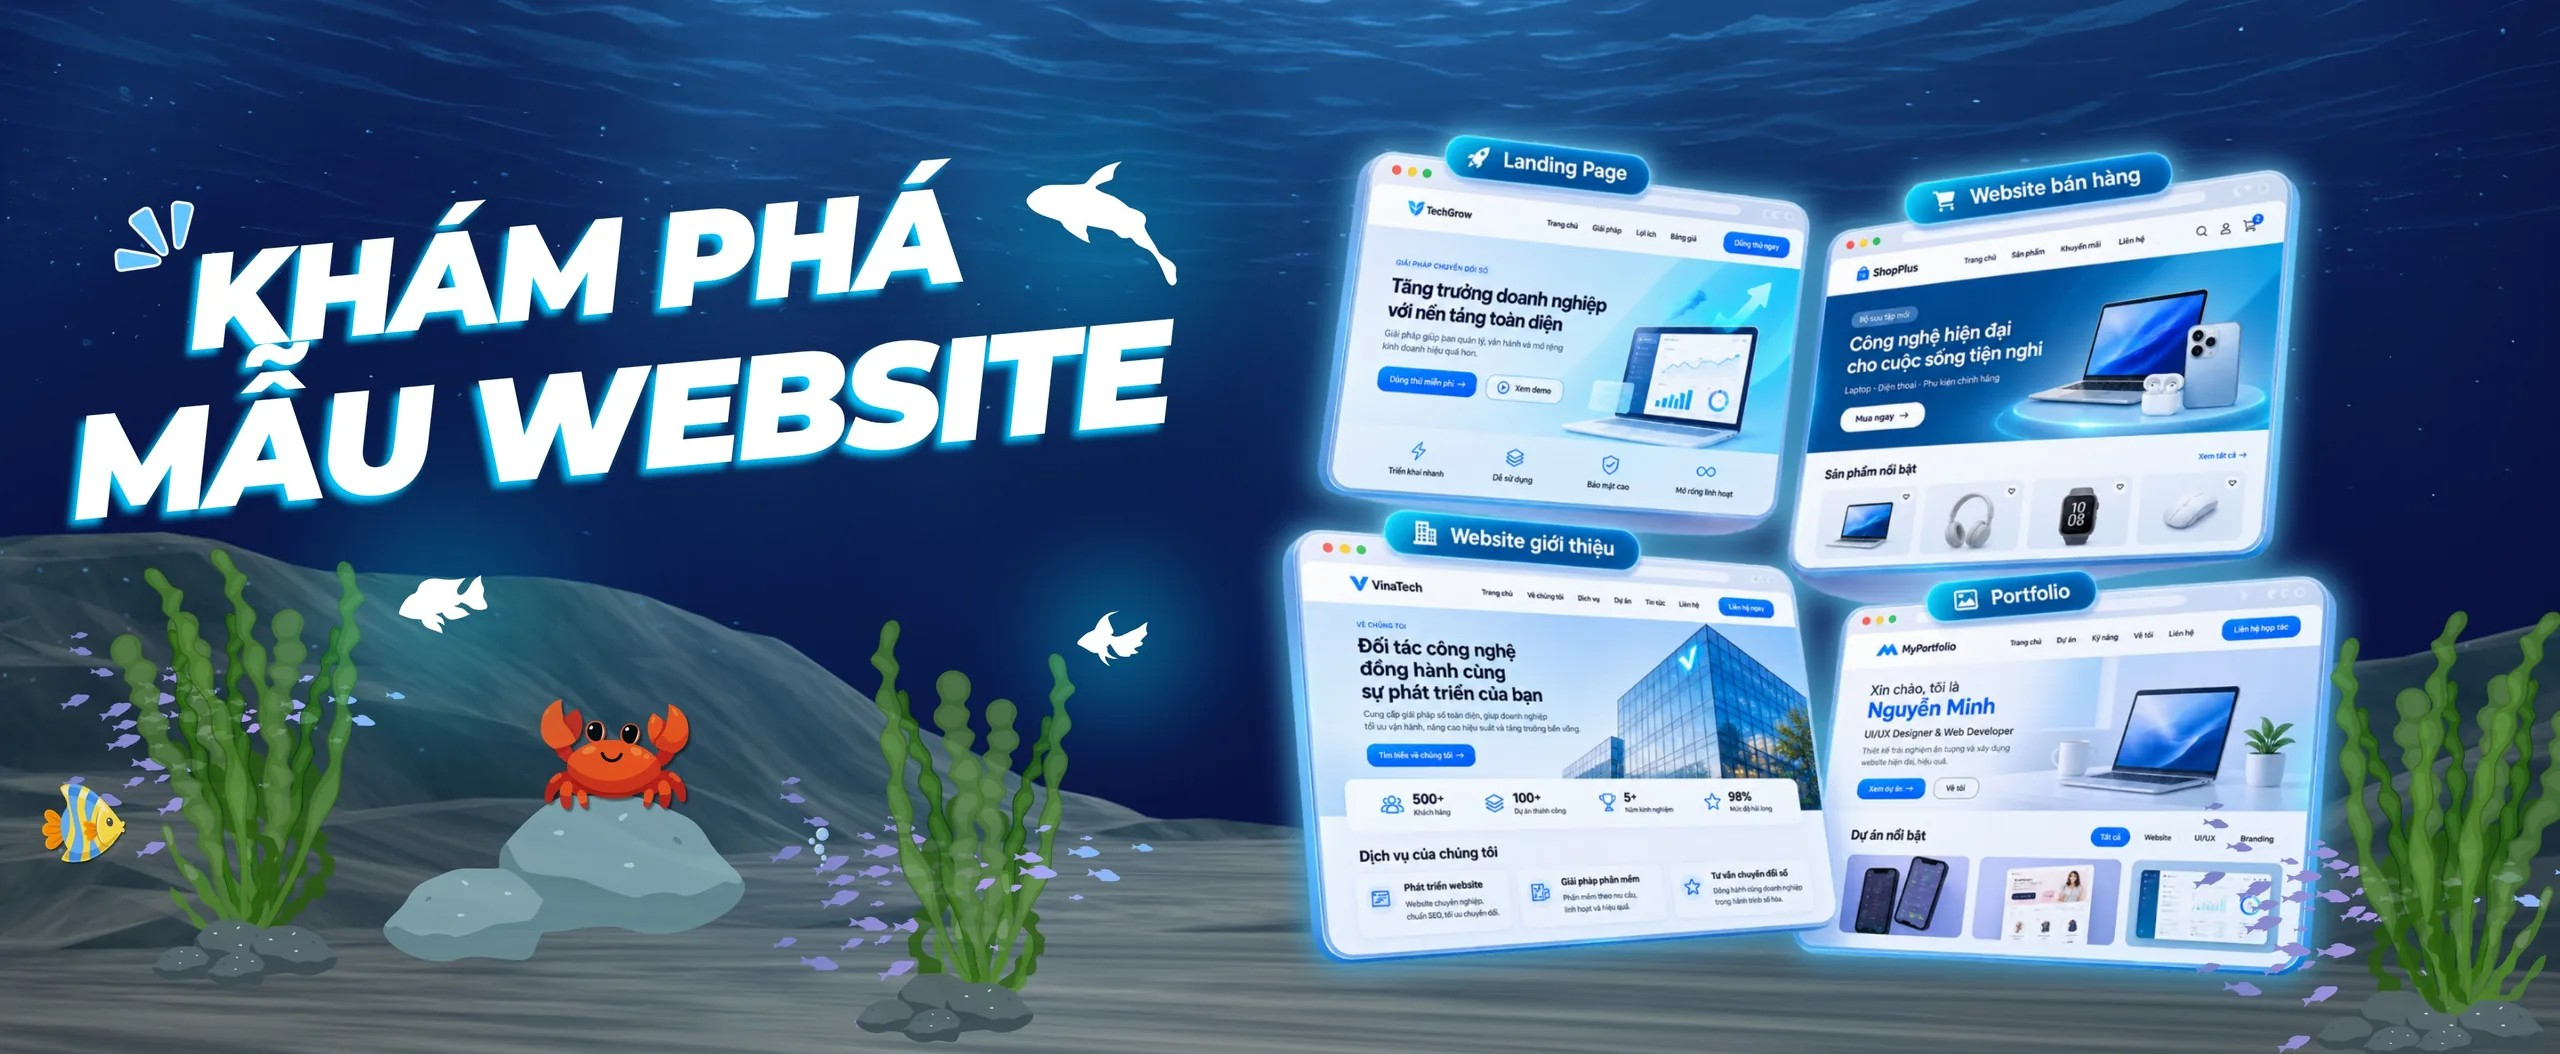
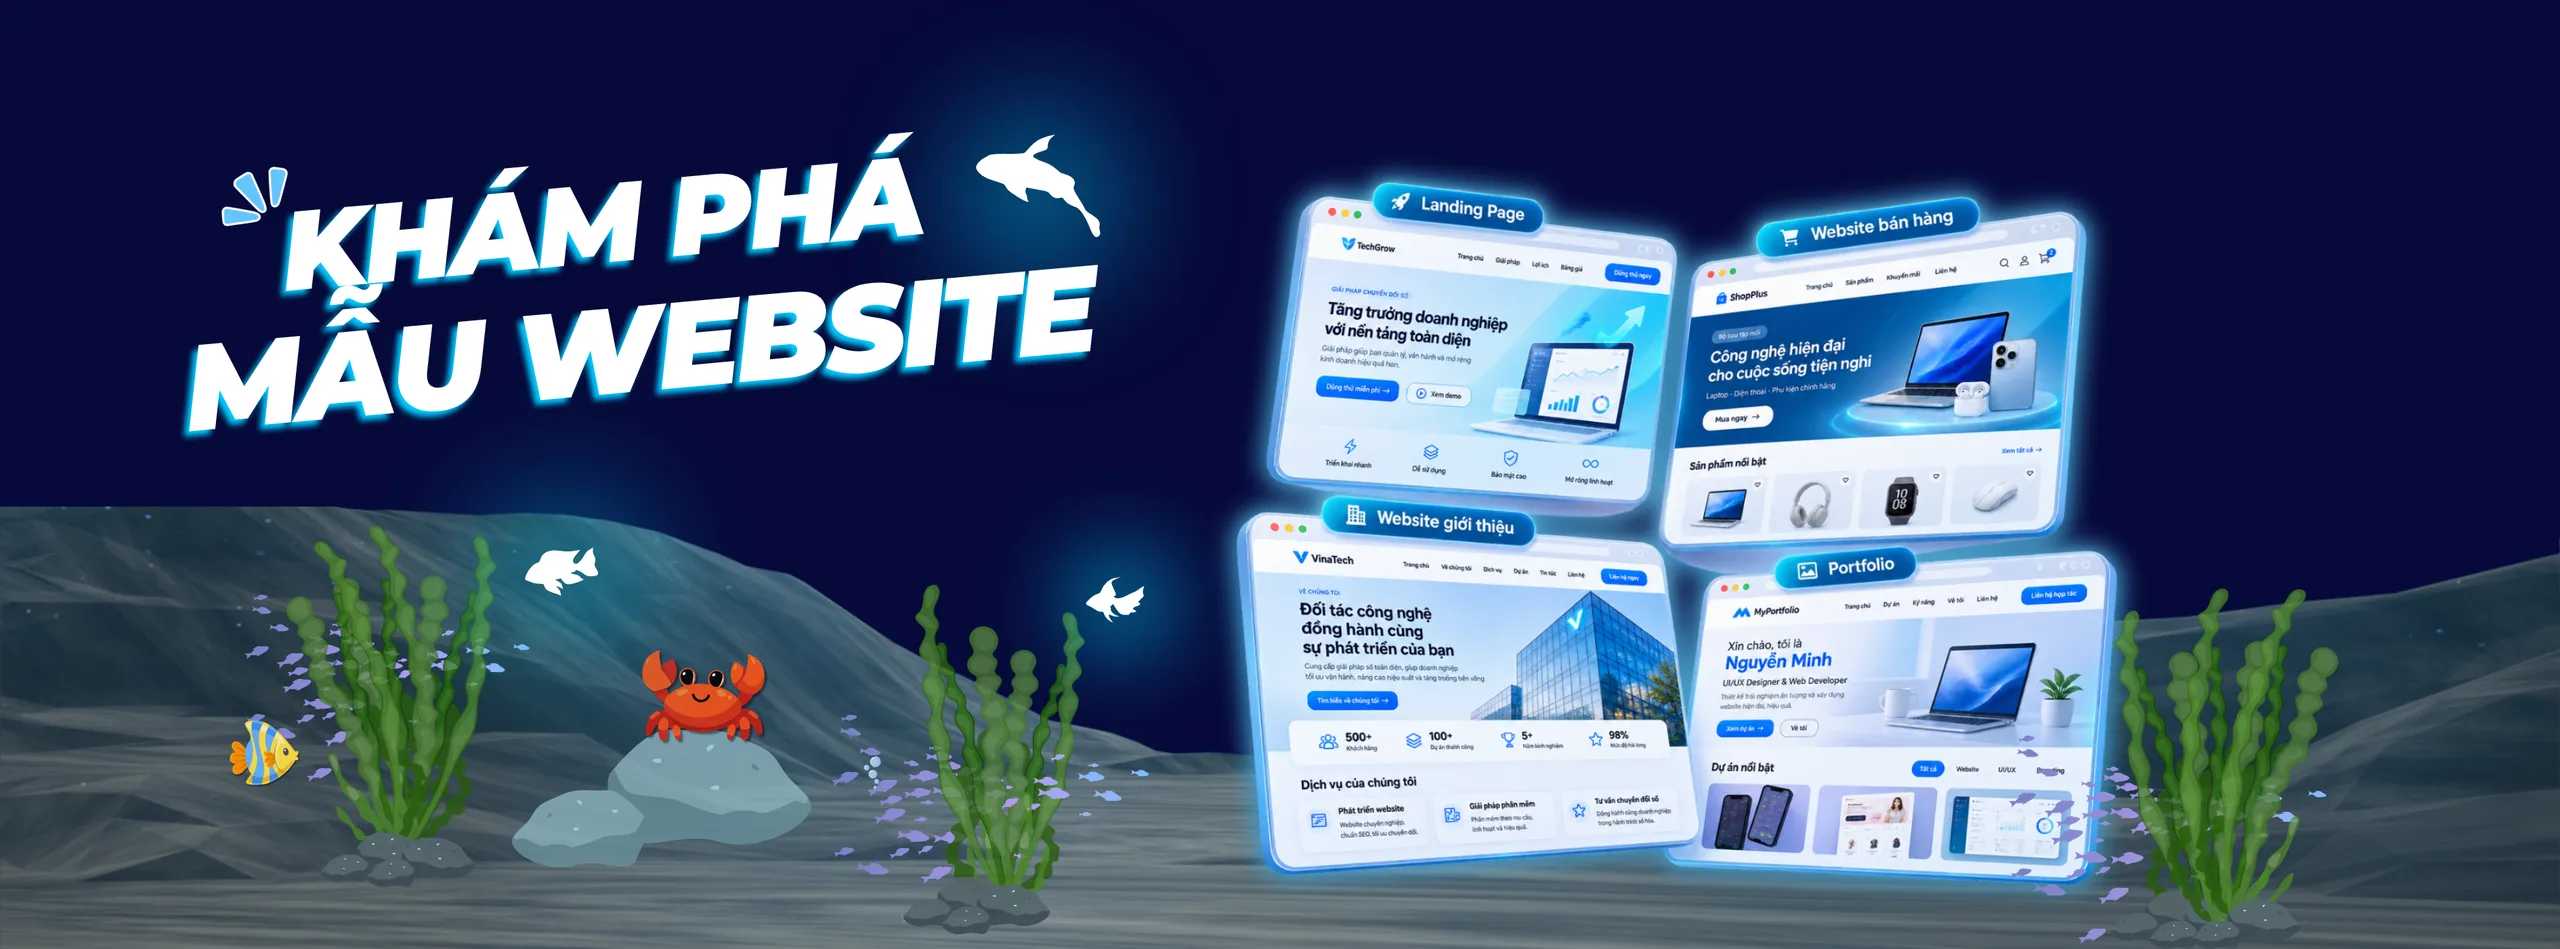
up

diff --git a/src/data/mauWeb.js b/src/data/mauWeb.js
@@ -13,7 +13,6 @@ const mauWeb = [
     gia: 500000,
     giaGoc: 650000, // giá gốc (có = đang khuyến mãi)
     moTa: 'Website bán cây xanh: giới thiệu, thực đơn, hệ thống cửa hàng, khuyến mãi, giỏ hàng và đặt bàn.',
-    luotBan: 12,
     danhGia: { diem: 4.8, luot: 9 }, // sao trung bình, số lượt đánh giá
     ngayTao: '2026-09-25',
     boCuc: 'Landing + 4 mục (Giới thiệu, Thực đơn, Cửa hàng, Khuyến mãi)',
@@ -42,7 +41,6 @@ const mauWeb = [
     gia: 400000,
     giaGoc: 800000, // giá gốc (có = đang khuyến mãi)
     moTa: 'Landing page trung tâm luyện thi IELTS phong cách trẻ trung (sticker, doodle, giấy xé): khóa học, lộ trình học, giảng viên, cảm nhận học viên và form đăng ký tư vấn.',
-    luotBan: 12,
     danhGia: { diem: 4.9, luot: 14 }, // sao trung bình, số lượt đánh giá
     ngayTao: '2026-10-15',
     boCuc: 'Landing page một trang cuộn dọc',
@@ -69,7 +67,6 @@ const mauWeb = [
     gia: 300000,
     giaGoc: 400000, // giá gốc (có = đang khuyến mãi)
     moTa: 'Landing page phòng khám đa khoa: giới thiệu dịch vụ, đội ngũ bác sĩ, đặt lịch khám trực tuyến, tra cứu lịch hẹn và cảm nhận bệnh nhân.',
-    luotBan: 12,
     danhGia: { diem: 4.7, luot: 11 }, // sao trung bình, số lượt đánh giá
     ngayTao: '2026-10-15',
     boCuc: 'Landing page một trang cuộn dọc',
@@ -95,7 +92,6 @@ const mauWeb = [
     mau: 'xanh-duong',
     gia: 200000,
     moTa: 'Landing page phòng khám VitaCare: ảnh nền lớn, giới thiệu đội ngũ bác sĩ, các dịch vụ chuyên khoa, đặt lịch khám và thông tin liên hệ trong hộp thoại.',
-    luotBan: 12,
     danhGia: { diem: 4.6, luot: 8 }, // sao trung bình, số lượt đánh giá
     ngayTao: '2026-10-15',
     boCuc: 'Landing page một trang, đầu trang ảnh lớn',
@@ -121,7 +117,6 @@ const mauWeb = [
     mau: 'cam',
     gia: 100000,
     moTa: 'Landing page thương hiệu thời trang hiện đại: bộ sưu tập, sản phẩm nổi bật lọc theo Nam/Nữ/Phụ kiện, xem nhanh sản phẩm, giỏ hàng, danh sách yêu thích và đăng ký nhận tin.',
-    luotBan: 12,
     danhGia: { diem: 4.8, luot: 12 }, // sao trung bình, số lượt đánh giá
     ngayTao: '2026-10-15',
     boCuc: 'Landing page một trang cuộn dọc, có giỏ hàng',
@@ -148,7 +143,6 @@ const mauWeb = [
     mau: 'cam',
     gia: 100000,
     moTa: 'Landing page thương hiệu nội thất: bộ sưu tập sofa, ghế thư giãn, xích đu, đèn trang trí, đồ ngoài trời; xem chi tiết sản phẩm, giỏ hàng, đăng nhập, dịch vụ và liên hệ.',
-    luotBan: 12,
     danhGia: { diem: 4.7, luot: 10 }, // sao trung bình, số lượt đánh giá
     ngayTao: '2026-10-15',
     boCuc: 'Landing page một trang cuộn dọc, có giỏ hàng',
@@ -174,7 +168,6 @@ const mauWeb = [
     mau: 'xanh-la',
     gia: 100000,
     moTa: 'Landing page thương hiệu nước trái cây thiên nhiên phong cách tươi mát: giới thiệu thương hiệu, sản phẩm theo vị, khuyến mãi, lợi ích, cảm nhận khách hàng, giỏ hàng và đăng ký nhận tin.',
-    luotBan: 12,
     danhGia: { diem: 4.9, luot: 10 }, // sao trung bình, số lượt đánh giá
     ngayTao: '2026-10-17',
     moi: true, // nhãn "Mới"
@@ -201,7 +194,6 @@ const mauWeb = [
     mau: 'xanh-dam',
     gia: 100000,
     moTa: 'Portfolio cá nhân cho nhà thiết kế UI/UX: giới thiệu, dự án tiêu biểu (xem chi tiết từng dự án), dịch vụ, kỹ năng, cảm nhận khách hàng, đặt lịch tư vấn và liên hệ; nền xanh navy hiện đại.',
-    luotBan: 12,
     danhGia: { diem: 4.8, luot: 7 }, // sao trung bình, số lượt đánh giá
     ngayTao: '2026-10-17',
     moi: true, // nhãn "Mới"
@@ -228,7 +220,6 @@ const mauWeb = [
     mau: 'xanh-dam',
     gia: 100000,
     moTa: 'Website báo điện tử tin tức: trang chủ tin nổi bật, 11 chuyên mục (thời sự, công nghệ, giáo dục, thể thao, kinh tế, sức khỏe, du lịch...), xem chi tiết bài viết và bình luận, tìm kiếm, lưu bài viết.',
-    luotBan: 12,
     danhGia: { diem: 4.6, luot: 9 }, // sao trung bình, số lượt đánh giá
     ngayTao: '2026-10-18',
     moi: true, // nhãn "Mới"
@@ -258,7 +249,6 @@ const mauWeb = [
     mau: 'xanh-duong',
     gia: 510000,
     moTa: 'Website văn phòng phẩm: giới thiệu, sản phẩm, hệ thống cửa hàng, khuyến mãi, giỏ hàng và đặt hàng.',
-    luotBan: 0,
     danhGia: { diem: 4.5, luot: 4 }, // sao trung bình, số lượt đánh giá
     ngayTao: '2026-09-25',
     boCuc: 'Landing + 4 mục (Giới thiệu, Sản phẩm, Cửa hàng, Khuyến mãi)',
@@ -286,7 +276,6 @@ const mauWeb = [
     gia: 100000,
     giaGoc: 200000, // giá gốc (có = đang khuyến mãi)
     moTa: 'Website giới thiệu làng nghề và di sản thủ công truyền thống Việt Nam: nghệ nhân, di sản, sự kiện, tin tức, bản đồ làng nghề và trang liên hệ, có tìm kiếm và xem ảnh lớn.',
-    luotBan: 12,
     danhGia: { diem: 4.9, luot: 13 }, // sao trung bình, số lượt đánh giá
     ngayTao: '2026-10-16',
     boCuc: 'Nhiều trang, có trang chi tiết cho từng di sản, nghệ nhân, sự kiện, bài viết',
@@ -315,7 +304,6 @@ const mauWeb = [
     mau: 'xanh-duong',
     gia: 400000,
     moTa: 'Hệ thống quản lý câu lạc bộ sinh viên Trường Đại học Trà Vinh: sinh viên xem CLB, đăng ký hoạt động, theo dõi điểm rèn luyện; ban chủ nhiệm quản lý thành viên, hoạt động, điểm danh QR; ban quản lý trường duyệt hoạt động và xem báo cáo thống kê; quản trị viên phân quyền tài khoản.',
-    luotBan: 0,
     danhGia: { diem: 4.8, luot: 5 }, // sao trung bình, số lượt đánh giá
     ngayTao: '2026-10-15',
     boCuc: 'Trang công khai + khu làm việc có thanh menu bên trái, đổi giao diện theo 5 vai trò',
@@ -350,7 +338,6 @@ const mauWeb = [
     mau: 'toi',
     gia: 350000,
     moTa: 'Website giới thiệu showroom ô tô giao diện tối hiện đại: danh sách xe có lọc theo dòng xe, hãng, khoảng giá; trang chi tiết xe chọn màu, thông số; dịch vụ bảo dưỡng, tin tức, liên hệ và đặt lịch lái thử lưu lại trên trình duyệt.',
-    luotBan: 0,
     danhGia: { diem: 5.0, luot: 3 }, // sao trung bình, số lượt đánh giá
     ngayTao: '2026-10-31',
     moi: true, // nhãn "Mới"

diff --git a/src/context/DonHangContext.jsx b/src/context/DonHangContext.jsx
@@ -1,4 +1,5 @@
 import { createContext, useContext, useState } from 'react';
+import mauWeb from '../data/mauWeb';
 import { doc, ghi } from '../utils/luuTru';
 import { useTaiKhoan } from './TaiKhoanContext';
 
@@ -23,6 +24,11 @@ export function DonHangProvider({ children }) {
     // Đơn của người đang đăng nhập, mới nhất trước (đơn tạo sau nằm cuối mảng nên đảo ngược lại)
     const donCuaToi = user ? tatCa.filter((d) => d.email === user.email).reverse() : [];
     const daMua = (id) => donCuaToi.some((d) => d.items.some((it) => it.id === id));
+
+    // Lượt bán thật của từng mẫu = số đơn (mọi tài khoản) có mẫu đó; mauCoLuotBan: mauWeb kèm luotBan đã đếm
+    const demLuotBan = {};
+    tatCa.forEach((d) => d.items.forEach((it) => (demLuotBan[it.id] = (demLuotBan[it.id] ?? 0) + 1)));
+    const mauCoLuotBan = mauWeb.map((m) => ({ ...m, luotBan: demLuotBan[m.id] ?? 0 }));
 
     // Tạo đơn mới sau khi "thanh toán", trả về mã đơn để trang Thành công hiện ra.
     // Mã đơn: DH + số thứ tự 3 chữ số, tăng dần trên toàn hệ thống, vd DH001, DH002...
@@ -67,7 +73,7 @@ export function DonHangProvider({ children }) {
         ghi(KHOA_DANH_GIA, moi);
     };
 
-    return <DonHangContext.Provider value={{ donCuaToi, daMua, taoDon, danhGiaCuaToi, danhGiaCuaMau, guiDanhGia }}>{children}</DonHangContext.Provider>;
+    return <DonHangContext.Provider value={{ donCuaToi, daMua, mauCoLuotBan, taoDon, danhGiaCuaToi, danhGiaCuaMau, guiDanhGia }}>{children}</DonHangContext.Provider>;
 }
 
 export const useDonHang = () => useContext(DonHangContext);

diff --git a/src/pages/MauWeb/useLocMau.js b/src/pages/MauWeb/useLocMau.js
@@ -1,7 +1,6 @@
 import { useEffect, useState } from 'react';
 import { useSearchParams } from 'react-router-dom';
 import { useDonHang } from '../../context/DonHangContext';
-import mauWeb from '../../data/mauWeb';
 import { GIA_TOI_DA } from '../../data/danhmuc';
 import { locTheoTuKhoa } from './timKiemMau';
 import { laDacBiet, laKhuyenMaiThuong, laMoi } from '../../utils/nhanMau';
@@ -29,9 +28,9 @@ function useLocMau() {
 
     // Ẩn mẫu tài khoản đang đăng nhập đã mua (đã có trong Lịch sử mua hàng, không cần xem / mua lại).
     // Chưa đăng nhập thì daMua luôn false → hiện đủ. dsMau dùng chung cho lọc, số đếm ở Bộ lọc và gợi ý
-    const { daMua } = useDonHang();
-    const dsMau = mauWeb.filter((m) => !daMua(m.id));
-    const soDaMua = mauWeb.length - dsMau.length;
+    const { daMua, mauCoLuotBan } = useDonHang();
+    const dsMau = mauCoLuotBan.filter((m) => !daMua(m.id));
+    const soDaMua = mauCoLuotBan.length - dsMau.length;
 
     // Quay lại từ trang chi tiết thì lấy lại bộ lọc, sắp xếp đã chọn
     const laQuayLai = useLaQuayLai();

diff --git a/src/pages/GioiThieu/SoLieu.jsx b/src/pages/GioiThieu/SoLieu.jsx
@@ -1,11 +1,13 @@
 import { loaiList } from '../../data/danhmuc';
 import mauWeb from '../../data/mauWeb';
+import { useDonHang } from '../../context/DonHangContext';
 import { dinhDangGia } from '../../utils/chuyenDoi';
 
 // 3. SỐ LIỆU
 function SoLieu() {
 
-    const tongLuotMua = mauWeb.reduce((tong, m) => tong + m.luotBan, 0);
+    const { mauCoLuotBan } = useDonHang();
+    const tongLuotMua = mauCoLuotBan.reduce((tong, m) => tong + m.luotBan, 0);
     const giaThapNhat = Math.min(...mauWeb.map((m) => m.gia));
    
     const soNganh = new Set(mauWeb.map((m) => m.nganh)).size;
@@ -14,7 +16,7 @@ function SoLieu() {
         { so: `${mauWeb.length}+`, nhan: 'Mẫu website' },
         { so: `${loaiList.length}`, nhan: 'Danh mục' },
         { so: `${soNganh}+`, nhan: 'Ngành nghề' },
-        { so: `${tongLuotMua}+`, nhan: 'Lượt mua thành công' },
+        { so: `${tongLuotMua}`, nhan: 'Lượt mua thành công' },
         { so: `Từ ${dinhDangGia(giaThapNhat)}`, nhan: 'Mức giá khởi điểm' },
     ];
 

diff --git a/src/pages/TrangChu/MauNoiBat.jsx b/src/pages/TrangChu/MauNoiBat.jsx
@@ -2,7 +2,7 @@ import { useState } from 'react';
 import { Link } from 'react-router-dom';
 import TheMau from '../../components/sanpham/TheMau';
 import { loaiList } from '../../data/danhmuc';
-import mauWeb from '../../data/mauWeb';
+import { useDonHang } from '../../context/DonHangContext';
 import nenMauNoiBat from '../../assets/nen-mau-noi-bat.webp';
 
 // 4. MẪU NỔI BẬT: 4 mẫu bán chạy nhất theo danh mục
@@ -10,7 +10,8 @@ function MauNoiBat() {
 
     const [tabChon, setTabChon] = useState(loaiList[0].id);
 
-    const noiBat = mauWeb
+    const { mauCoLuotBan } = useDonHang();
+    const noiBat = mauCoLuotBan
         .filter((m) => m.loai === tabChon)
         .sort((a, b) => b.luotBan - a.luotBan)
         .slice(0, 4);

diff --git a/src/components/sanpham/KhungBanChay.jsx b/src/components/sanpham/KhungBanChay.jsx
@@ -1,12 +1,13 @@
 import { Link } from 'react-router-dom';
-import mauWeb from '../../data/mauWeb';
+import { useDonHang } from '../../context/DonHangContext';
 import { dinhDangGia } from '../../utils/chuyenDoi';
 
 
 const MAU_HANG = ['bg-amber-400 text-amber-950', 'bg-slate-300 text-slate-800', 'bg-orange-300 text-orange-950'];
 
 function KhungBanChay({ soLuong = 4 }) {
-  const top = [...mauWeb].sort((a, b) => b.luotBan - a.luotBan).slice(0, soLuong);
+  const { mauCoLuotBan } = useDonHang();
+  const top = [...mauCoLuotBan].sort((a, b) => b.luotBan - a.luotBan).slice(0, soLuong);
 
   return (
     <div className="min-w-0 rounded-2xl bg-white p-5 text-left shadow-xl shadow-blue-950/30">

diff --git a/src/pages/ChiTietMau/MauLienQuan.jsx b/src/pages/ChiTietMau/MauLienQuan.jsx
@@ -1,9 +1,10 @@
 import TheMau from '../../components/sanpham/TheMau';
-import mauWeb from '../../data/mauWeb';
+import { useDonHang } from '../../context/DonHangContext';
 
 // Mẫu liên quan: trùng cả lĩnh vực và loại website
 function MauLienQuan({ mau }) {
-    const lienQuan = mauWeb
+    const { mauCoLuotBan } = useDonHang();
+    const lienQuan = mauCoLuotBan
         .filter((m) => m.id !== mau.id && m.nganh === mau.nganh && m.loai === mau.loai)
         .sort((a, b) => b.luotBan - a.luotBan)
         .slice(0, 3);
